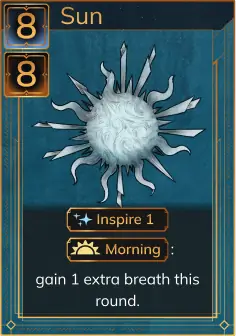
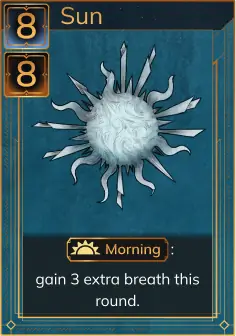
Buffed Sun, added debugging for sounds

Changed region(s): [[0.089, 0.5952, 0.9195, 0.7143], [0.2966, 0.8036, 0.3559, 0.8631]]

diff --git a/src/scene/matchRegions/animator.ts b/src/scene/matchRegions/animator.ts
@@ -294,7 +294,7 @@ export default class Animator {
 			onStart: function (tween: Phaser.Tweens.Tween, targets, _)
 			{
 				topCard.show()
-				that.scene.sound.play('shuffle')
+				that.scene.playSound('shuffle')
 			},
 			onComplete: function (tween, targets, _)
 			{

diff --git a/src/lib/buttons/button.ts b/src/lib/buttons/button.ts
@@ -155,7 +155,7 @@ export default class Button {
 				config.callbacks.click()
 
 				if (!this.muteClick) {
-					this.scene.sound.play('click')				
+					this.scene.sound.play('click')
 				}
 				} : () => {}
 			this.onHover = config.callbacks.hover

diff --git a/src/scene/matchRegions/mulliganRegion.ts b/src/scene/matchRegions/mulliganRegion.ts
@@ -88,7 +88,7 @@ export default class MulliganRegion extends Region {
 		let that = this
 
 		return function() {
-			that.scene.sound.play('click')
+			that.scene.playSound('click')
 
 			that.mulliganChoices[i] = !that.mulliganChoices[i]
 			

diff --git a/src/scene/baseScene.ts b/src/scene/baseScene.ts
@@ -61,6 +61,7 @@ class SharedBaseScene extends Phaser.Scene {
 
 	// Play the given sound, or one of its variants if it has any
 	playSound(s: string): void {
+		console.log(s)
 		const amt_variants = {
 			'open': 2,
 			'close': 2,
